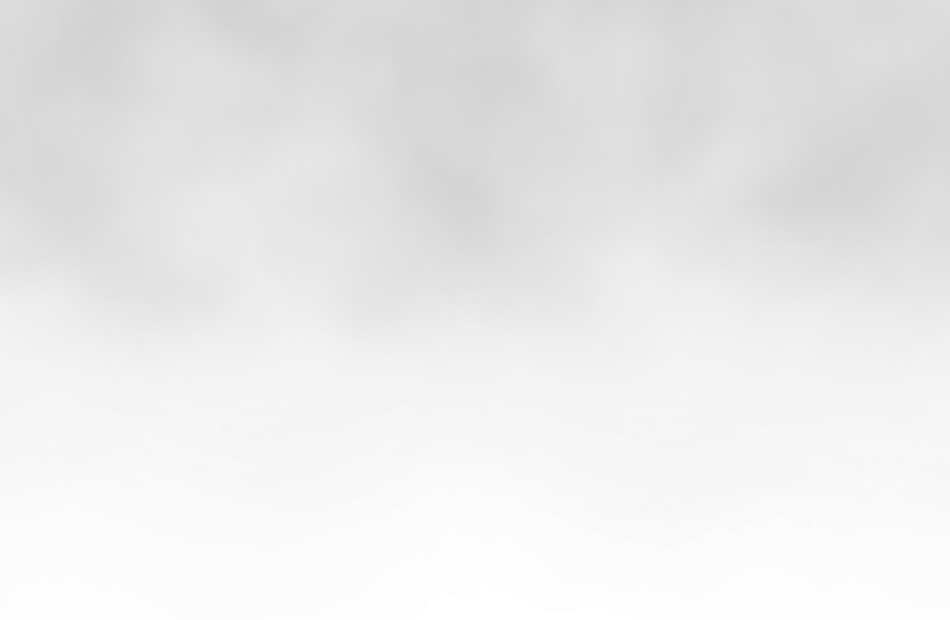
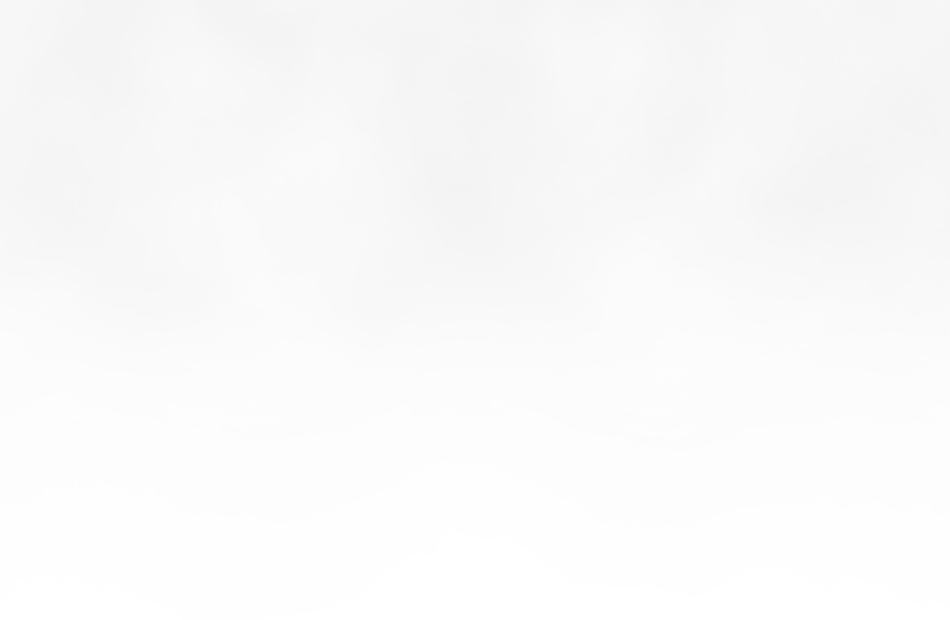
Ajustes menores al código y gráficos
-cambio de nombre del sitio
-ajuste editorial al código para visualizar mejor
-cambio a gráficos para eliminar humo excesivo

Changed region(s): [[0.0, 0.0, 1.0, 0.429]]

diff --git a/index.html b/index.html
@@ -1,6 +1,6 @@
 <html>
 <head>
-	<title>Simulator</title>
+	<title>mi2050</title>
 	
 	 <meta charset="UTF-8"> 
 
